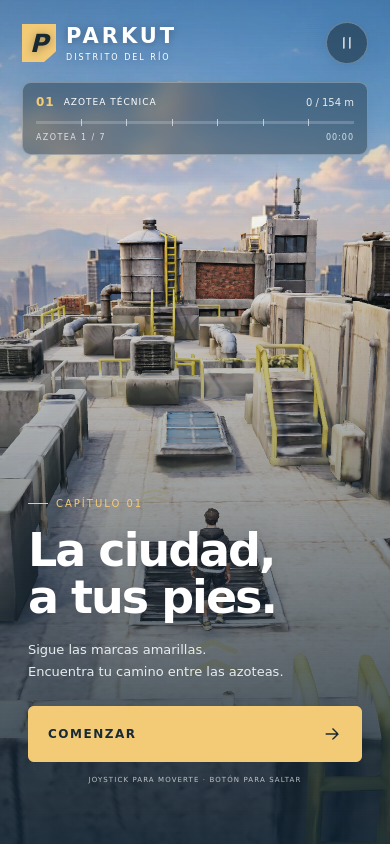
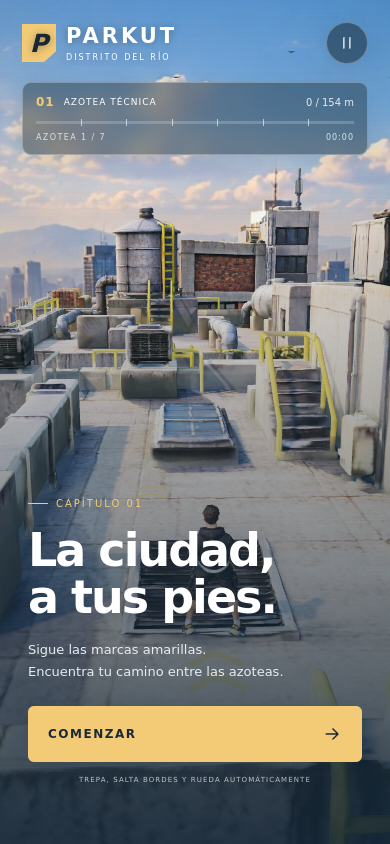
Document verified Android 0.2.0 download, signing transition and new gameplay preview

diff --git a/README.md b/README.md
@@ -2,7 +2,7 @@
 
 Primer nivel de un juego de parkour en tercera persona, diseñado en vertical para Android. Usa el personaje con esqueleto y los siete edificios entregados por el propietario del proyecto.
 
-**[Descargar el APK de prueba](https://github.com/manureymar/parkut-juego/releases/download/nivel-01-build-2/Parkut-Nivel01.apk)** · **[Releases](https://github.com/manureymar/parkut-juego/releases)** · **[Ver compilaciones](https://github.com/manureymar/parkut-juego/actions/workflows/android.yml)**
+**[Descargar el APK de prueba](https://github.com/manureymar/parkut-juego/releases/download/nivel-01-build-4/Parkut-Nivel01.apk)** · **[Releases](https://github.com/manureymar/parkut-juego/releases)** · **[Ver compilaciones](https://github.com/manureymar/parkut-juego/actions/workflows/android.yml)**
 
 ## Jugar
 
@@ -35,7 +35,7 @@ Los originales se conservan completos en archivos GZIP sin pérdida; los mayores
 
 El código del juego y las dependencias Three.js que ejecuta están incluidos en el repositorio. No hay dependencias de CDN en tiempo de ejecución. La app es una aplicación Android que contiene un juego WebGL 2; no es un proyecto Unity ni Godot.
 
-Para reconstruir el APK sin instalar herramientas en tu ordenador, abre **Actions → Compilar APK de Parkut → Run workflow**. Cada compilación correcta crea un APK firmado de prueba y su suma SHA-256 en Releases. No se utiliza una clave de publicación de Google Play. Al cambiar la clave de depuración entre entornos, Android puede requerir desinstalar una prueba anterior antes de instalar la siguiente.
+Para reconstruir el APK sin instalar herramientas en tu ordenador, abre **Actions → Compilar APK de Parkut → Run workflow**. Cada compilación correcta crea un APK firmado de prueba y su suma SHA-256 en Releases. No se utiliza una clave de publicación de Google Play. Esta actualización cambia la firma de la primera prueba: desinstala el APK anterior si Android rechaza la instalación por conflicto de firma. A partir de la compilación 4, el workflow conserva la clave de pruebas en una caché para reutilizarla en las siguientes compilaciones.
 
 Entorno reproducible: Java 17, Gradle 8.9, Android Gradle Plugin 8.7.3, SDK 35, Build Tools 35.0.0. Desde `nivel-01/android`, ejecuta `gradle assembleDebug`. El resultado queda en `app/build/outputs/apk/debug/app-debug.apk`. El APK compilado se conserva en GitHub Releases.
 

diff --git a/docs/verificacion.md b/docs/verificacion.md
@@ -26,7 +26,7 @@
 - Sin errores JavaScript en la prueba de interfaz.
 - Joystick táctil y salto simultáneos comprobados con eventos multitáctiles del navegador.
 - Compilación Android `assembleDebug` completada; firma APK v2 verificada con `apksigner`.
-- Compilación reproducida con éxito en GitHub Actions y APK publicado en [nivel-01-build-2](https://github.com/manureymar/parkut-juego/releases/tag/nivel-01-build-2).
+- Compilación reproducida con éxito en GitHub Actions y APK publicado en [nivel-01-build-4](https://github.com/manureymar/parkut-juego/releases/tag/nivel-01-build-4).
 
 Los resultados numéricos de las pruebas están en `physics-test-results.json`. Las capturas del juego real están en `vista-nivel-01.png` y `pantalla-inicio.png`.
 
